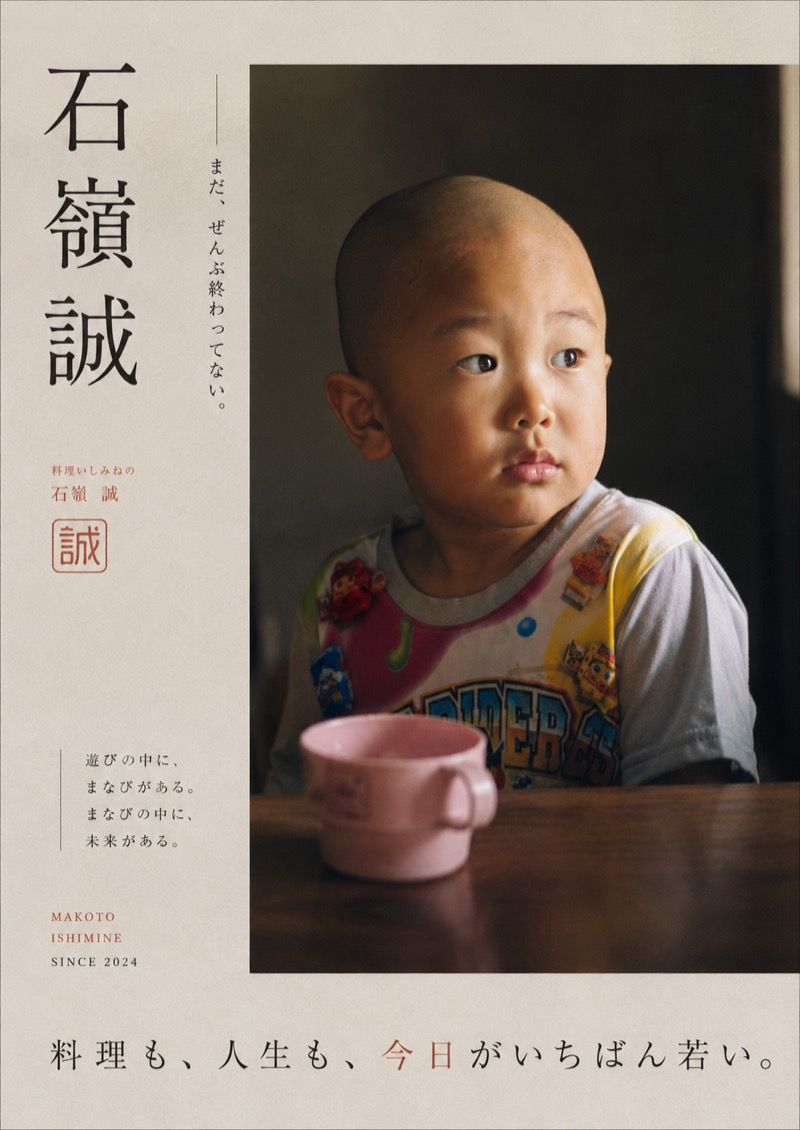
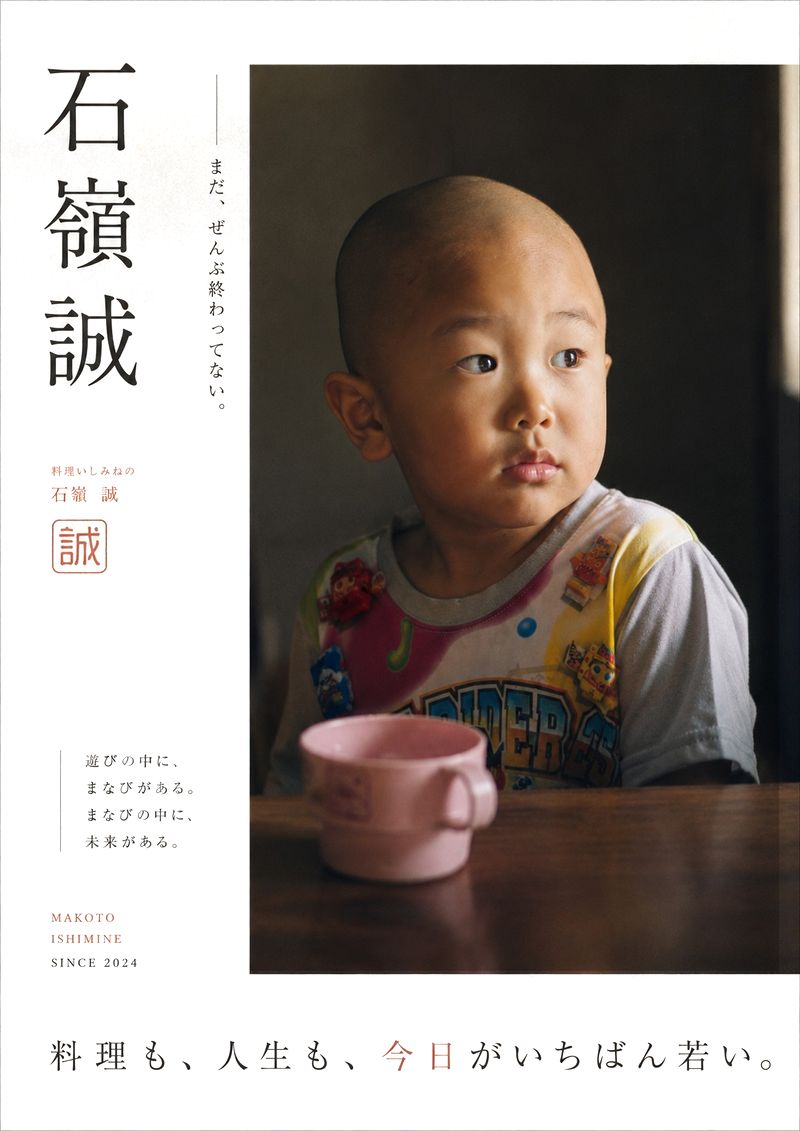
大将よりのポスター：灰色の紙地を消してページの生成りになじませる

diff --git a/index.html b/index.html
@@ -86,9 +86,9 @@ p{margin:0 0 1.1em}
 .aisatsu{background:#fdfbf6}
 .aisatsu .poster{margin:24px -26px -50px}
 .aisatsu .poster img{display:block;width:100%;height:auto;mix-blend-mode:multiply;
-  -webkit-mask-image:linear-gradient(to right,transparent,#000 8%,#000 92%,transparent),linear-gradient(to bottom,transparent,#000 7%,#000 95%,transparent);
+  -webkit-mask-image:linear-gradient(to right,transparent,#000 4%,#000 96%,transparent),linear-gradient(to bottom,transparent,#000 3%,#000 97%,transparent);
   -webkit-mask-composite:source-in;
-          mask-image:linear-gradient(to right,transparent,#000 8%,#000 92%,transparent),linear-gradient(to bottom,transparent,#000 7%,#000 95%,transparent);
+          mask-image:linear-gradient(to right,transparent,#000 4%,#000 96%,transparent),linear-gradient(to bottom,transparent,#000 3%,#000 97%,transparent);
           mask-composite:intersect}
 .aisatsu .body{font-size:15.5px;line-height:2.25}
 .sign{margin-top:26px;text-align:right;font-size:13.5px;letter-spacing:.12em;color:var(--sumi-soft)}
